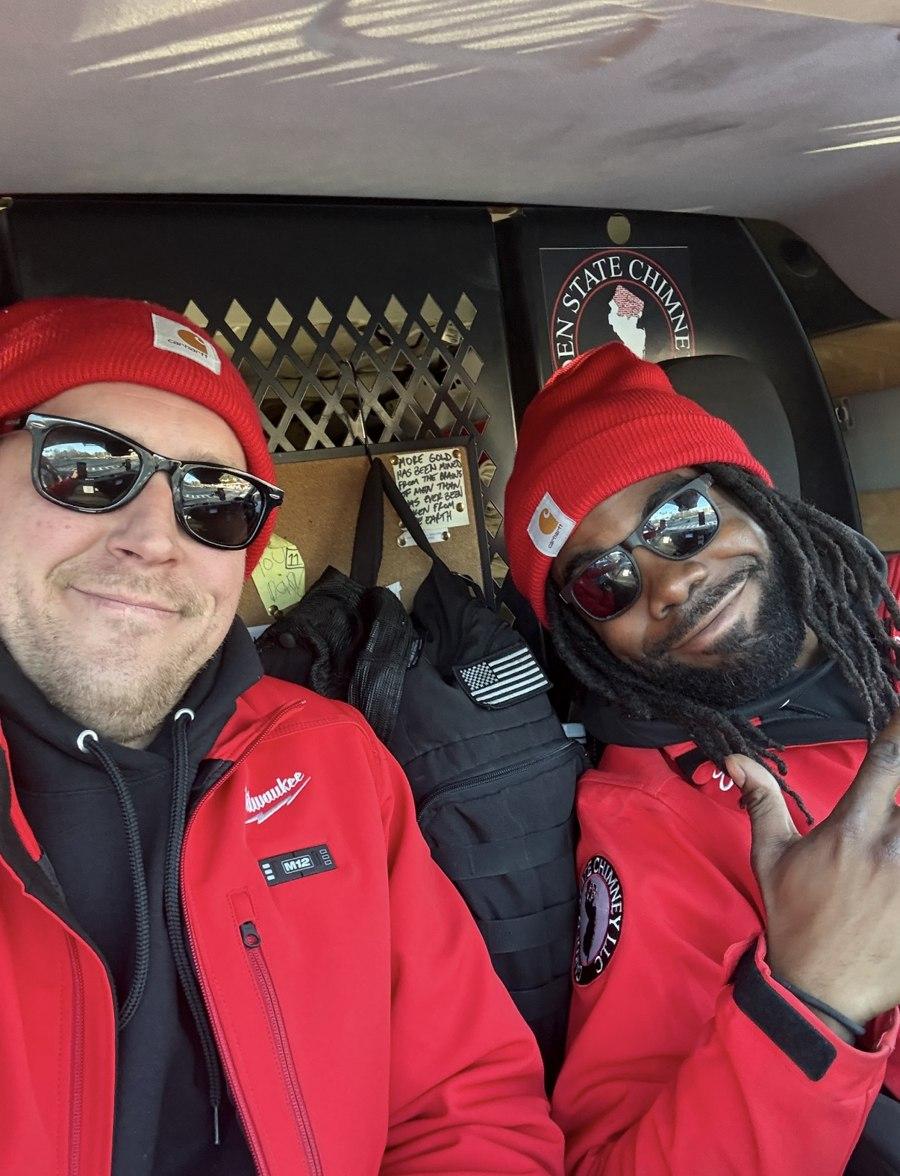
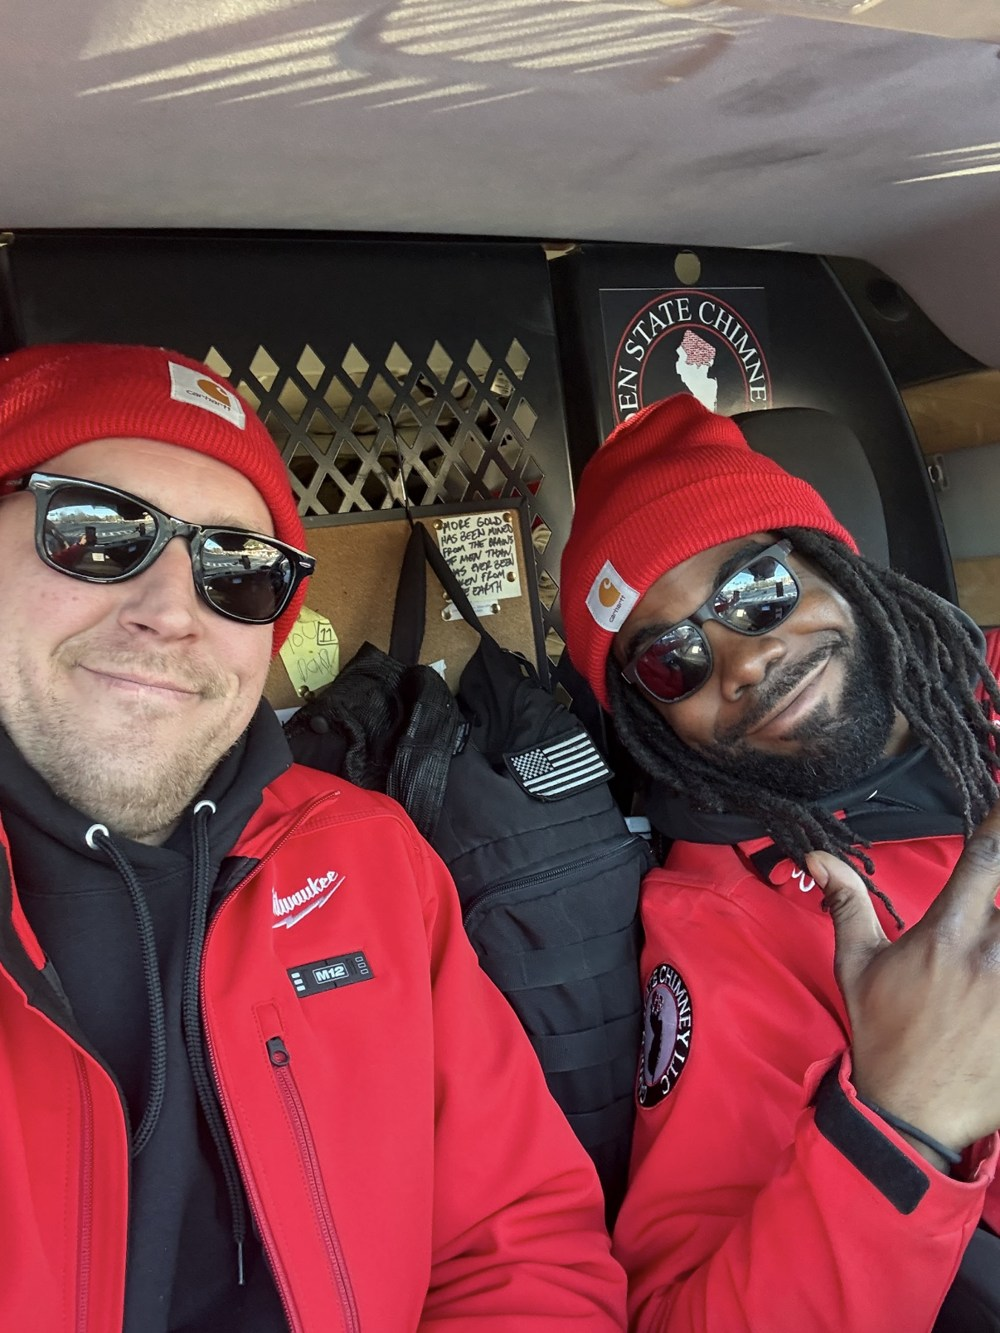
Redesign gallery as balanced masonry layout - photos keep natural shape, no cropping/letterboxing

diff --git a/assets/css/style.css b/assets/css/style.css
@@ -154,13 +154,10 @@ figure img { width: 100%; height: auto; max-height: 320px; object-fit: contain; 
 .cta-band h2 { color:#fff; }
 .cta-band p { color: #fbe9e8; }
 
-/* ---------- Gallery ---------- */
-.gallery { display:grid; grid-template-columns: repeat(4,1fr); gap:14px; }
-.gallery img { height: 180px; width:100%; object-fit: cover; object-position: center; border-radius: 8px; box-shadow: var(--shadow); transition: transform .25s; }
-.gallery img:hover { transform: scale(1.03); }
-/* Re-cropped to landscape; fill the cell, keep subject centered */
-.gallery img.g-roof { object-position: center 35%; }
-.gallery img.g-window { object-position: center 30%; }
+/* ---------- Gallery (masonry: keeps each photo's natural shape) ---------- */
+.gallery { column-count: 4; column-gap: 14px; }
+.gallery img { width: 100%; height: auto; display: block; margin: 0 0 14px; border-radius: 10px; box-shadow: var(--shadow); transition: transform .25s; break-inside: avoid; }
+.gallery img:hover { transform: scale(1.02); }
 
 /* ---------- Breadcrumb / page hero ---------- */
 .page-hero { background: var(--ink); color:#fff; position:relative; overflow:hidden; }
@@ -200,7 +197,8 @@ figure img { width: 100%; height: auto; max-height: 320px; object-fit: contain; 
 
 /* ---------- Responsive ---------- */
 @media (max-width: 980px) {
-  .grid-3, .grid-4, .values, .reviews, .gallery { grid-template-columns: repeat(2,1fr); }
+  .grid-3, .grid-4, .values, .reviews { grid-template-columns: repeat(2,1fr); }
+  .gallery { column-count: 3; }
   .split, .foot-grid { grid-template-columns: 1fr; gap: 28px; }
   .split > div { align-items: center; }
   .split img { max-width: 420px; max-height: none; }
@@ -212,7 +210,7 @@ figure img { width: 100%; height: auto; max-height: 320px; object-fit: contain; 
 }
 @media (max-width: 620px) {
   .grid-3, .grid-4, .values, .reviews, .grid-2 { grid-template-columns: 1fr; }
-  .gallery { grid-template-columns: repeat(2,1fr); gap: 10px; }
+  .gallery { column-count: 2; column-gap: 10px; }
   .section { padding: 48px 0; }
   .hero-inner { padding: 60px 20px; }
   .mobile-cta { display: flex; }
@@ -220,7 +218,6 @@ figure img { width: 100%; height: auto; max-height: 320px; object-fit: contain; 
   .topbar .wrap { justify-content: center; }
   .topbar .socials { display:none; }
   .card img { aspect-ratio: 3 / 4; height: auto; }
-  .gallery img { height: 150px; }
   .split img { max-width: 360px; max-height: none; }
   .prose img { max-width: 100%; max-height: none; margin: 1.2rem auto; }
   figure img { max-height: none; }
@@ -229,6 +226,5 @@ figure img { width: 100%; height: auto; max-height: 320px; object-fit: contain; 
   .grid-2, .grid-3 { gap: 16px; }
 }
 @media (max-width: 400px) {
-  .gallery { grid-template-columns: 1fr; }
-  .gallery img { height: 200px; }
+  .gallery { column-count: 2; }
 }

diff --git a/index.html b/index.html
@@ -299,14 +299,14 @@
       <h2>Recent Jobs Around Northern New Jersey</h2>
     </div>
     <div class="gallery">
-      <img src="assets/img/Garden-State-Team-Van.jpg" alt="Garden State Chimney technicians">
-      <img src="assets/img/Installing-a-Stove.jpg" alt="Installing a stove">
-      <img src="assets/img/Garden-State-Chimney-Services.jpg" alt="Garden State Chimney services">
+      <img src="assets/img/Garden-State-Team-Van.jpg" alt="Garden State Chimney technicians in their van">
+      <img src="assets/img/Installing-a-Stove.jpg" alt="Installing a wood stove">
+      <img src="assets/img/Chimney-Repair.jpg" alt="Chimney repair in progress">
       <img src="assets/img/Chimney-Inspection-1.jpg" alt="Chimney inspection">
-      <img src="assets/img/Chimney-Repair.jpg" alt="Chimney repair">
-      <img src="assets/img/Technician-Repairing-Fireplace.jpg" alt="Technician repairing fireplace">
-      <img class="g-window" src="assets/img/Dan-Barisonek.jpg" alt="Garden State Chimney technician giving a thumbs up">
-      <img class="g-roof" src="assets/img/Garden-State-Roof-Tech.jpg" alt="Garden State Chimney technician on a rooftop chimney">
+      <img src="assets/img/Garden-State-Roof-Tech.jpg" alt="Garden State Chimney technician on a rooftop chimney">
+      <img src="assets/img/Garden-State-Chimney-Services.jpg" alt="Garden State Chimney services">
+      <img src="assets/img/Technician-Repairing-Fireplace.jpg" alt="Technician repairing a fireplace">
+      <img src="assets/img/Dan-Barisonek.jpg" alt="Garden State Chimney technician giving a thumbs up">
     </div>
   </div>
 </section>